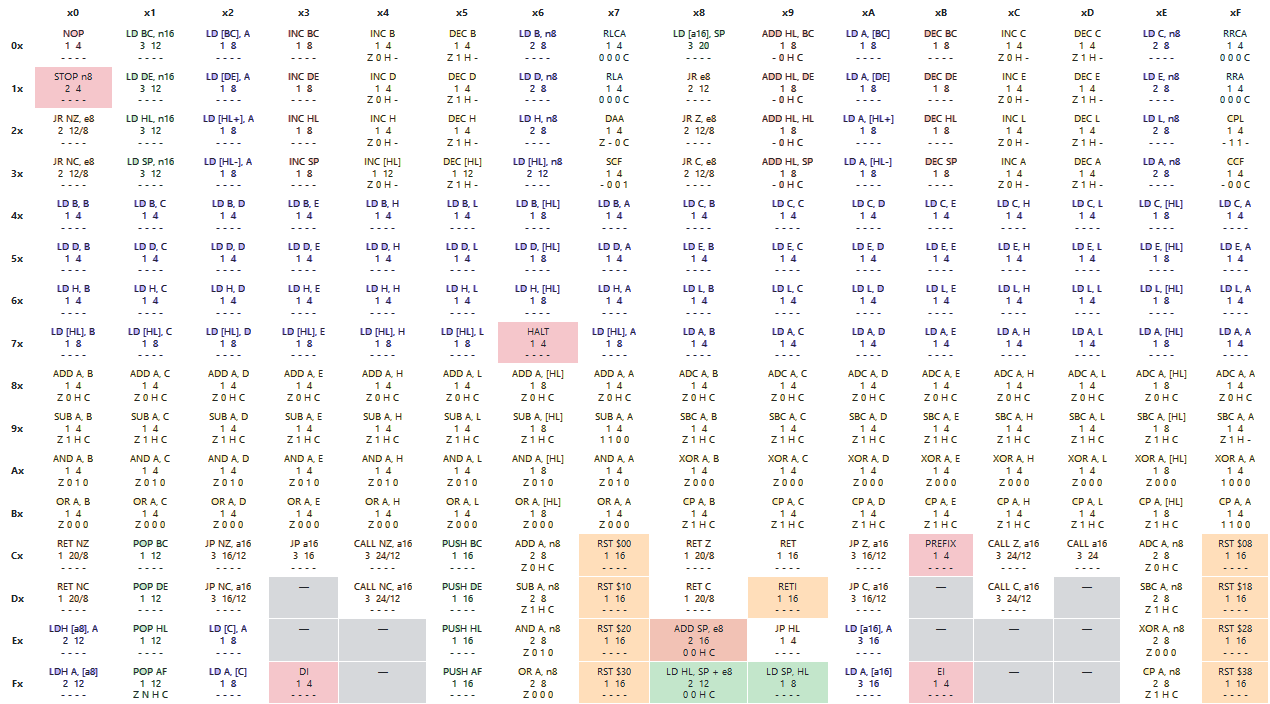
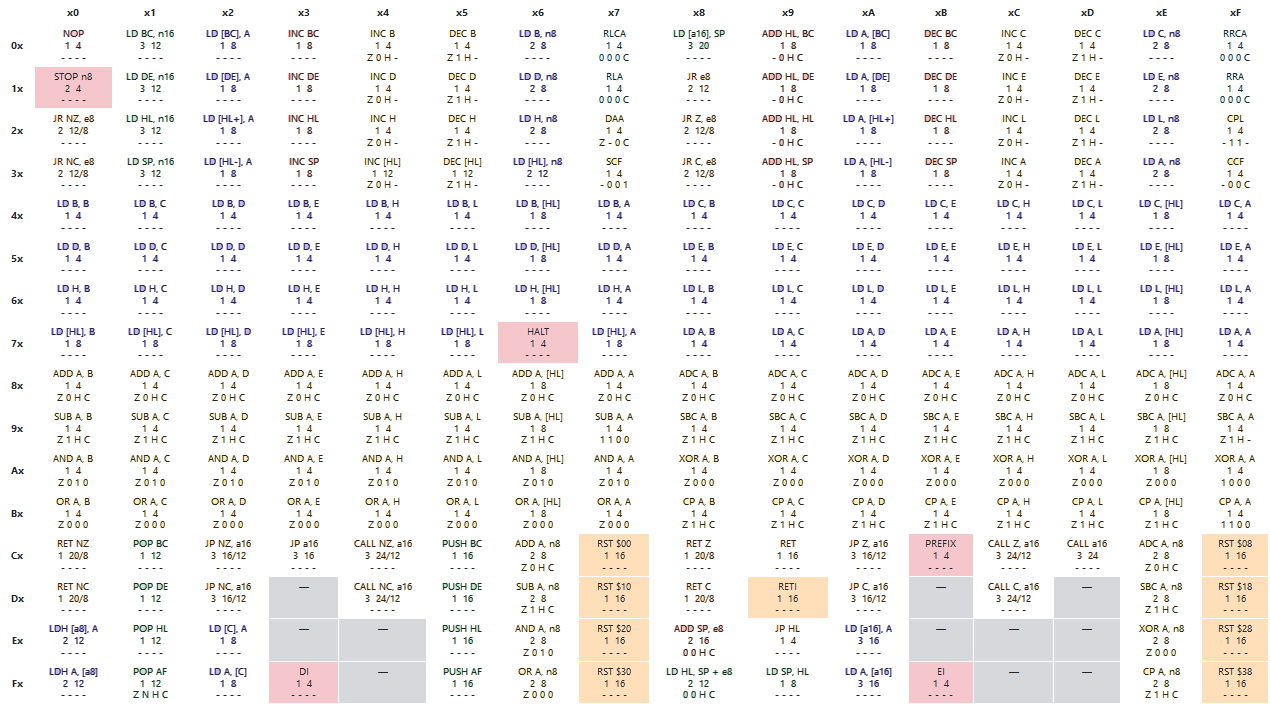
Add instructions LD SP, HL; LD HL, SP + e8; ADD SP, e8

Changed region(s): [[0.4913, 0.875, 0.6756, 1.0]]

diff --git a/src/cpu/instructions.rs b/src/cpu/instructions.rs
@@ -73,6 +73,9 @@ lazy_static!{
 		Instruction::new(vec![0x08], 20, "LD [a16], SP", LD_A16_SP),
 		Instruction::new(vec![0xC5, 0xD5, 0xE5, 0xF5], 16, "PUSH r16", PUSH_R16),
 		Instruction::new(vec![0xC1, 0xD1, 0xE1, 0xF1], 12, "POP r16", POP_R16),
+		Instruction::new(vec![0xF9], 8, "LD SP, HL", LD_SP_HL),
+		Instruction::new(vec![0xF8], 12, "LD HL, SP + e8", LD_HL_SP_E8),
+		Instruction::new(vec![0xE8], 16, "ADD SP, e8", ADD_SP_E8),
 
 		// arithmetic instructions
 		Instruction::new(vec![0x80, 0x81, 0x82, 0x83, 0x84, 0x85, 0x86, 0x87], 4, "ADD A, r8", ADD_ADC),
@@ -676,6 +679,64 @@ fn POP_R16(cpu: &mut CPU, opcode: u8, cycles: &mut u16) {
 
 	let new_value = (hi_byte as u16) << 8 | low_byte as u16;
 	cpu.registers.set_16bit_reg(Register16Bit::from_r16stk((opcode >> 4) & 3), new_value);
+
+	cpu.pc += 1;
+}
+
+/*
+
+MNEMONIC: LD SP, HL
+OPCODES: 0xF9
+DESC: Loads the value stored in HL into SP
+FLAGS: - - - -
+
+*/
+fn LD_SP_HL(cpu: &mut CPU, opcode: u8, cycles: &mut u16) {
+	let hl_value = cpu.registers.get_16bit_reg(Register16Bit::HL);
+	cpu.registers.set_16bit_reg(Register16Bit::SP, hl_value);
+
+	cpu.pc += 1;
+}
+
+/*
+
+MNEMONIC: LD HL, SP + e8
+OPCODES: 0xF8
+DESC: Sets HL to SP + e8
+FLAGS: 0 0 H C
+
+*/
+fn LD_HL_SP_E8(cpu: &mut CPU, opcode: u8, cycles: &mut u16) {
+	let sp_value = cpu.registers.get_16bit_reg(Register16Bit::SP);
+	let offset: i8 = get_imm8(cpu) as i8;
+
+	cpu.registers.set_16bit_reg(Register16Bit::HL, ((cpu.registers.get_16bit_reg(Register16Bit::SP) as i16) + offset as i16) as u16);
+
+	cpu.registers.set_8bit_reg(Register8Bit::F, 0);
+	cpu.registers.set_flag(Flag::H, (sp_value & 0xF) + (offset as u16 & 0xF) > 0xF);
+	cpu.registers.set_flag(Flag::C, (sp_value & 0xFF) + (offset as u16 & 0xFF) > 0xFF);
+
+	cpu.pc += 1;
+}
+
+/*
+
+MNEMONIC: ADD SP, e8
+OPCODES: 0xE8
+DESC: Offsets SP by e8
+FLAGS: 0 0 H C
+
+*/
+fn ADD_SP_E8(cpu: &mut CPU, opcode: u8, cycles: &mut u16) {
+	
+	let offset = get_imm8(cpu) as i8;
+
+	let sp_value = cpu.registers.get_16bit_reg(Register16Bit::SP);
+	cpu.registers.set_16bit_reg(Register16Bit::SP, (sp_value as i16 + offset as i16) as u16);
+
+	cpu.registers.set_8bit_reg(Register8Bit::F, 0);
+	cpu.registers.set_flag(Flag::H, (sp_value & 0xF) + (offset as u16 & 0xF) > 0xF);
+	cpu.registers.set_flag(Flag::C, (sp_value & 0xFF) + (offset as u16 & 0xFF) > 0xFF);
 
 	cpu.pc += 1;
 }
